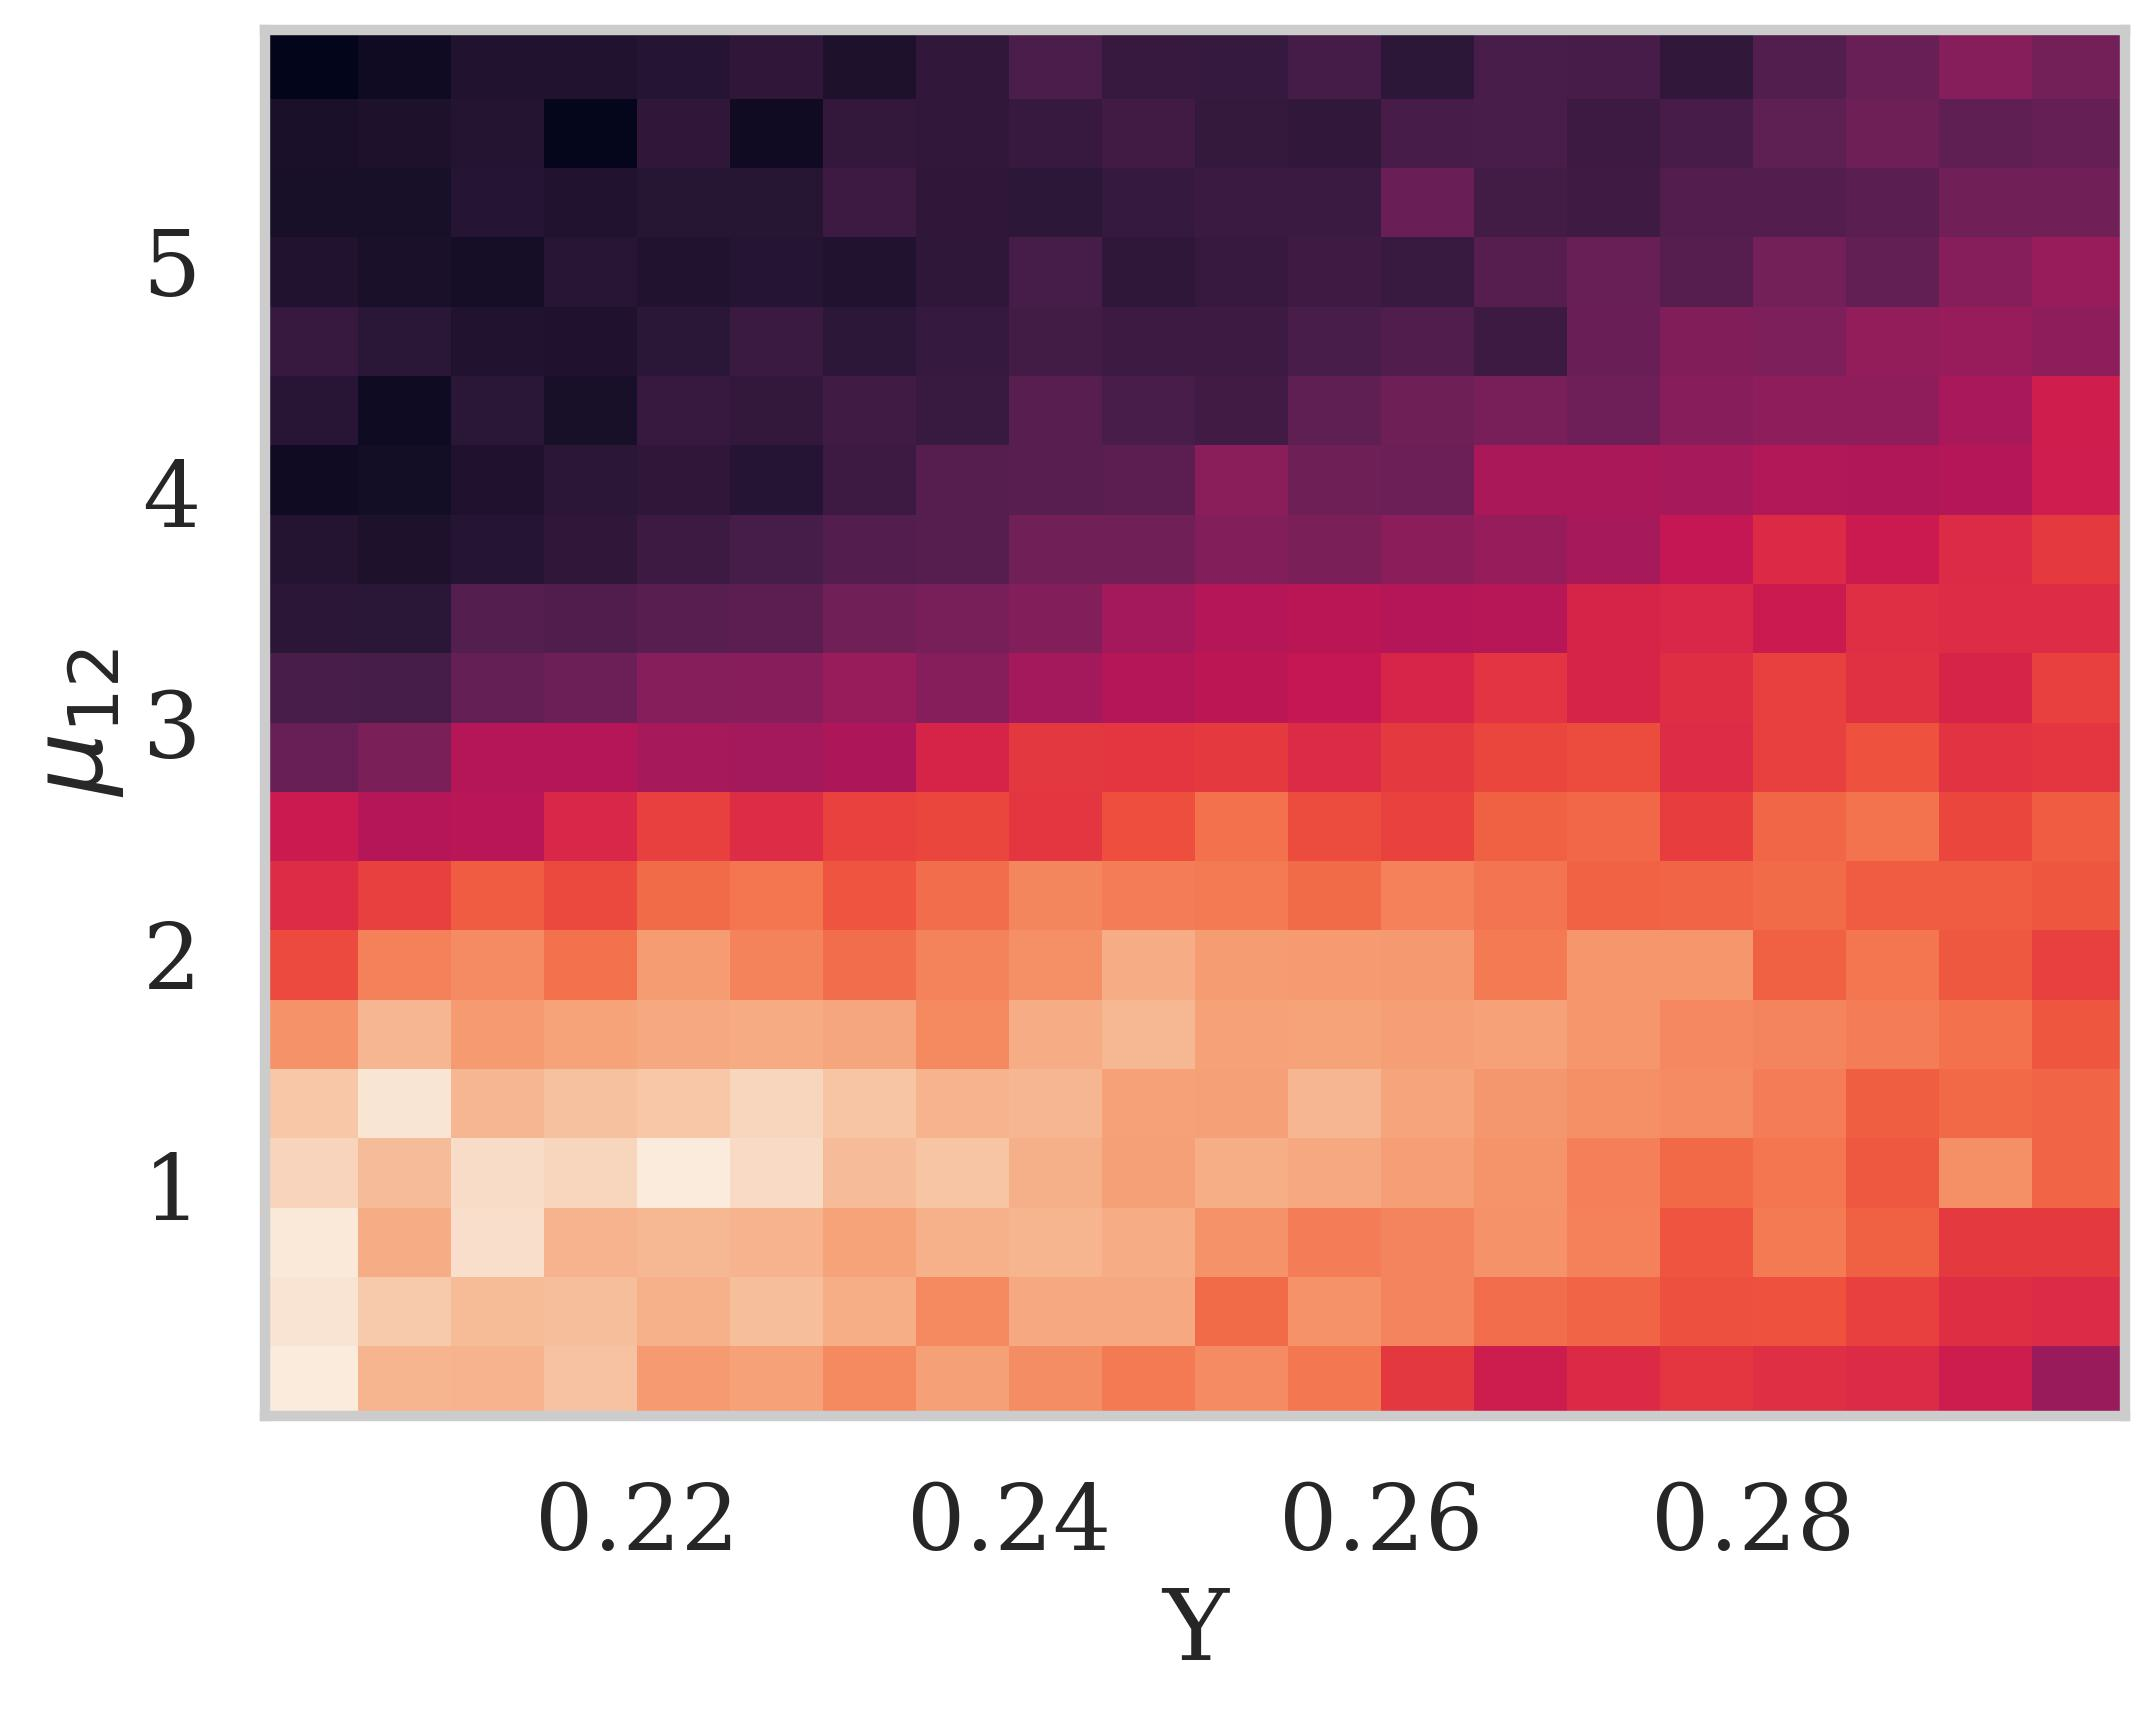
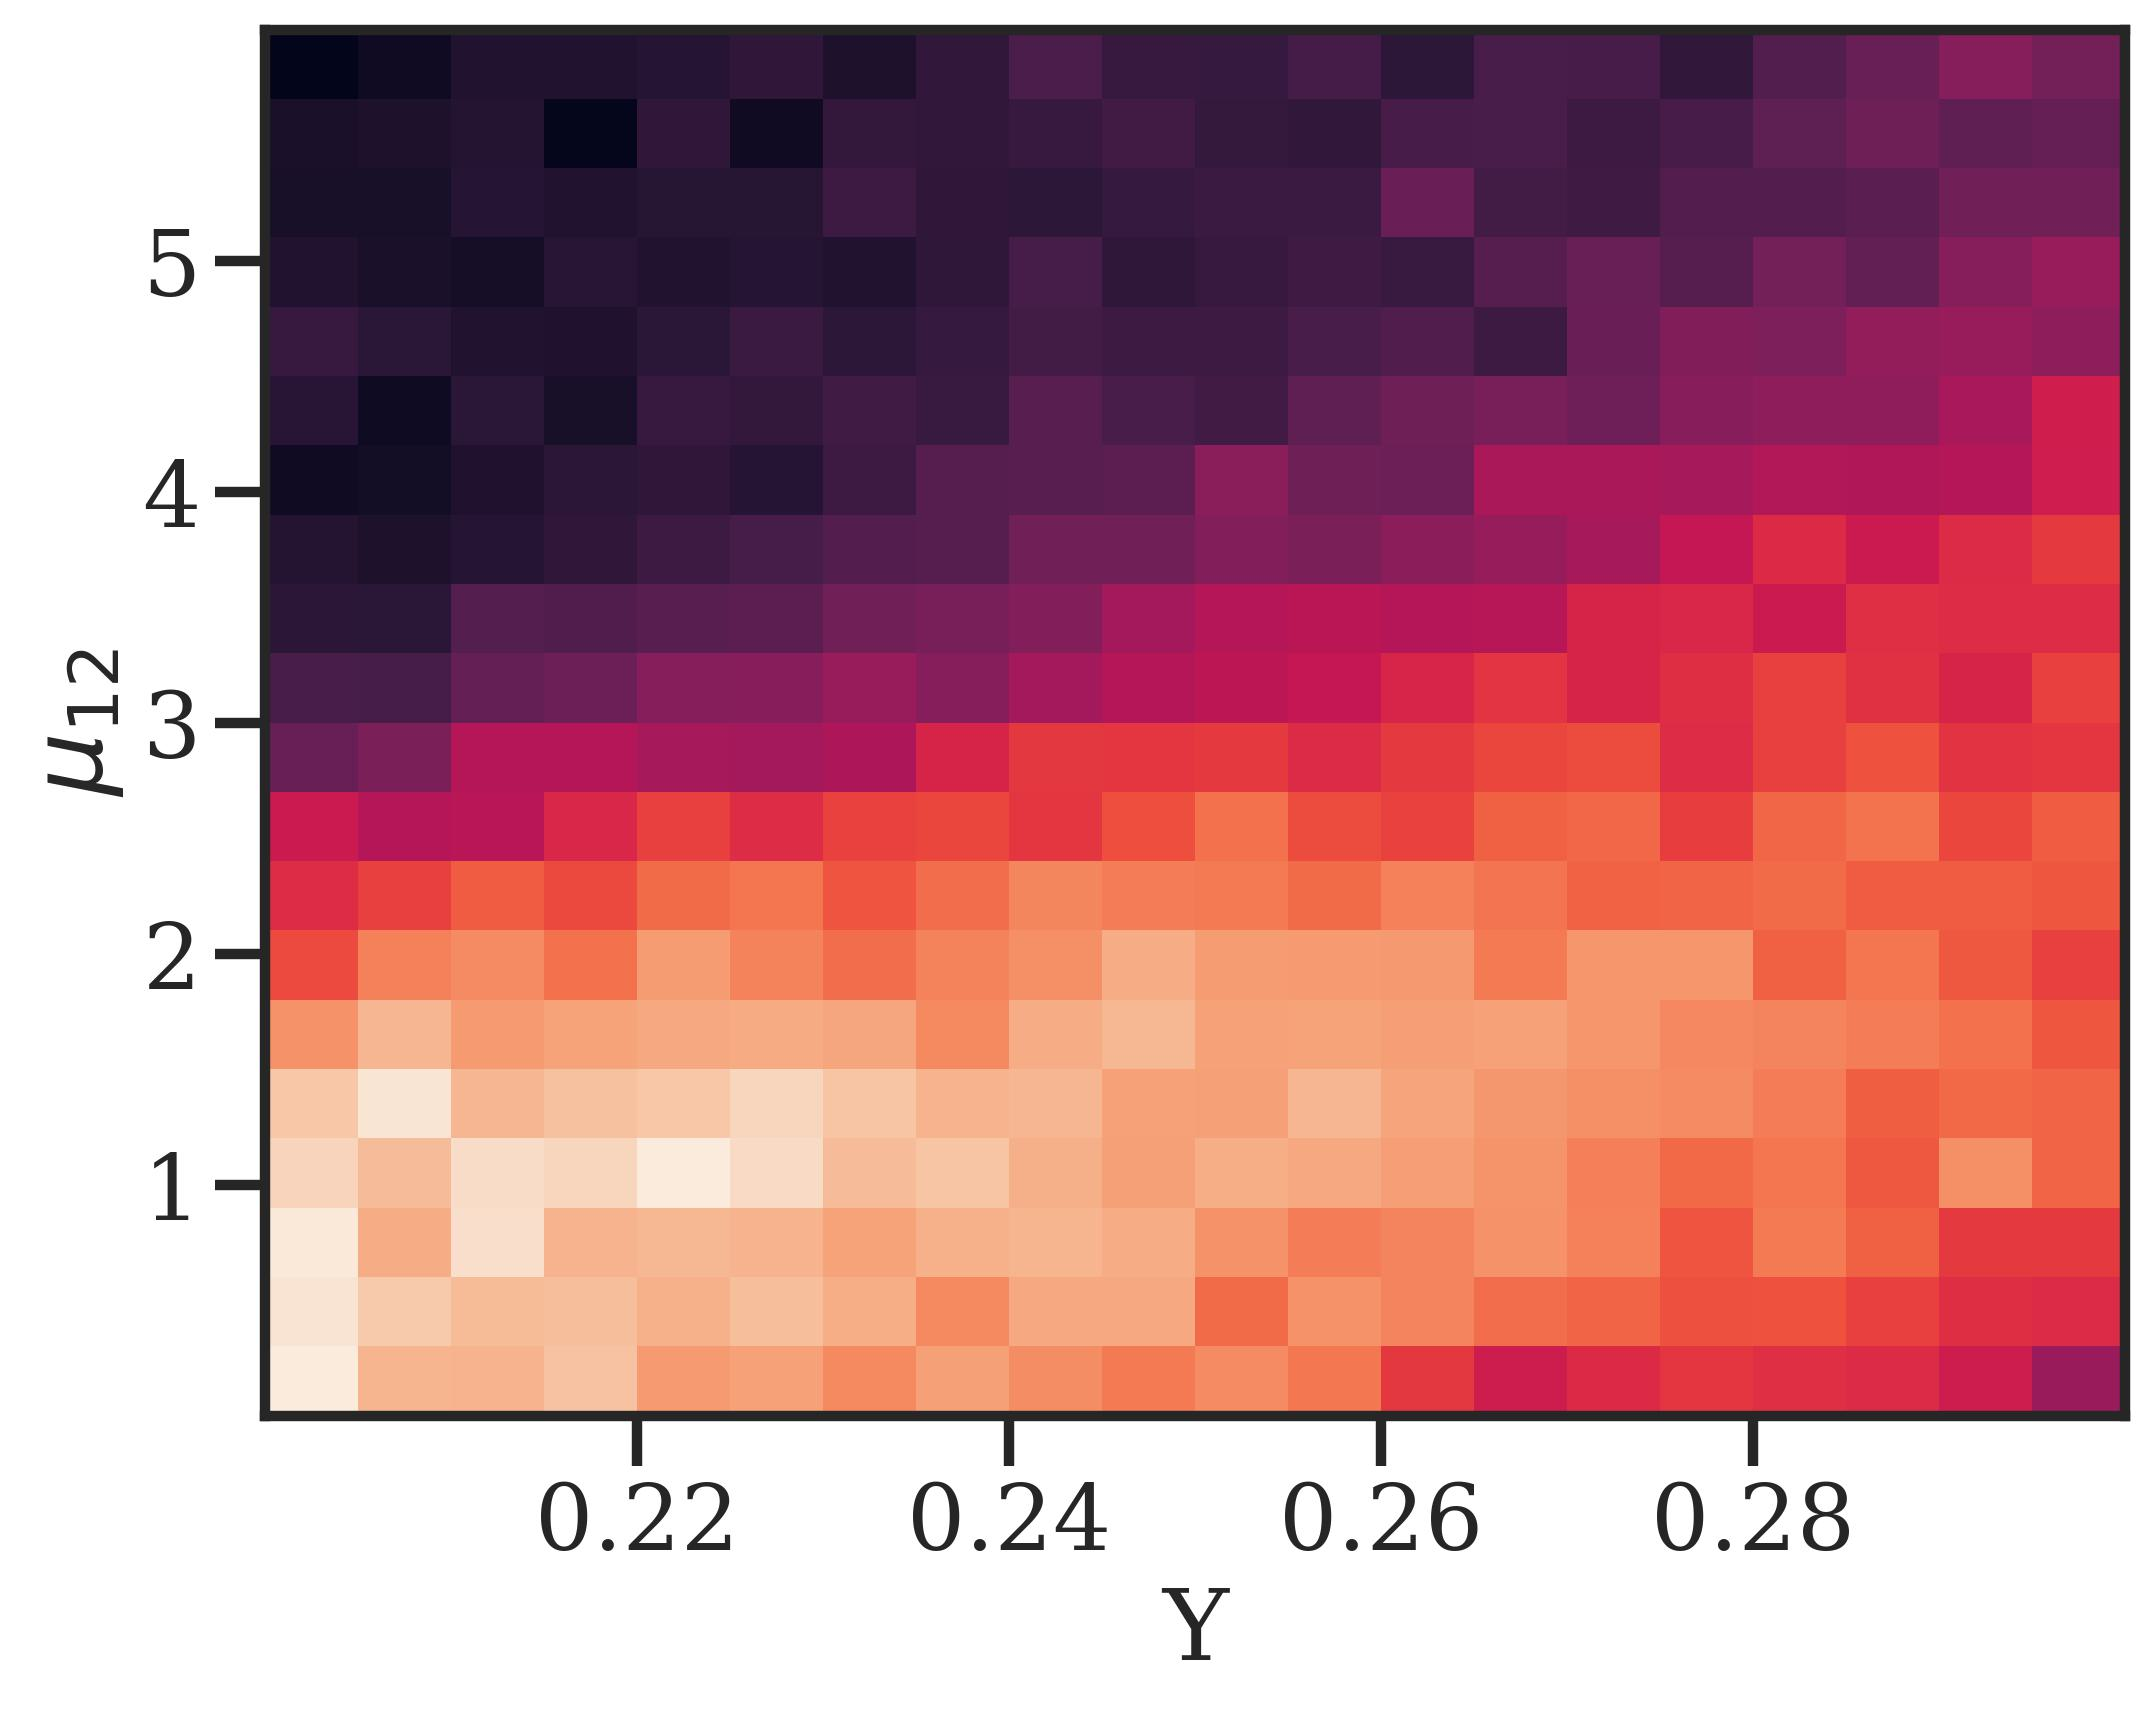
fix format

Changed region(s): [[0.0933, 0.0, 0.9949, 0.8673]]

diff --git a/mcmc/analyzeMCMC.py b/mcmc/analyzeMCMC.py
@@ -10,9 +10,16 @@ import matplotlib.pyplot as plt
 import seaborn as sb
 import corner
 
-sb.set(context='poster', style='whitegrid', palette='Set1')
+sb.set(context='poster', style='white', palette='Set1')
 plt.rcParams["font.family"] = "serif"
 plt.rcParams["figure.dpi"] = 300
+plt.rcParams["axes.grid.which"] = 'both'
+plt.rcParams['ytick.left'] = True
+plt.rcParams['xtick.bottom'] = True
+plt.rcParams['ytick.right'] = False
+plt.rcParams['xtick.top'] = False
+plt.rcParams['ytick.direction'] = 'out'
+plt.rcParams['xtick.direction'] = 'out'
 
 def plotCorner(chain, log):
     '''
